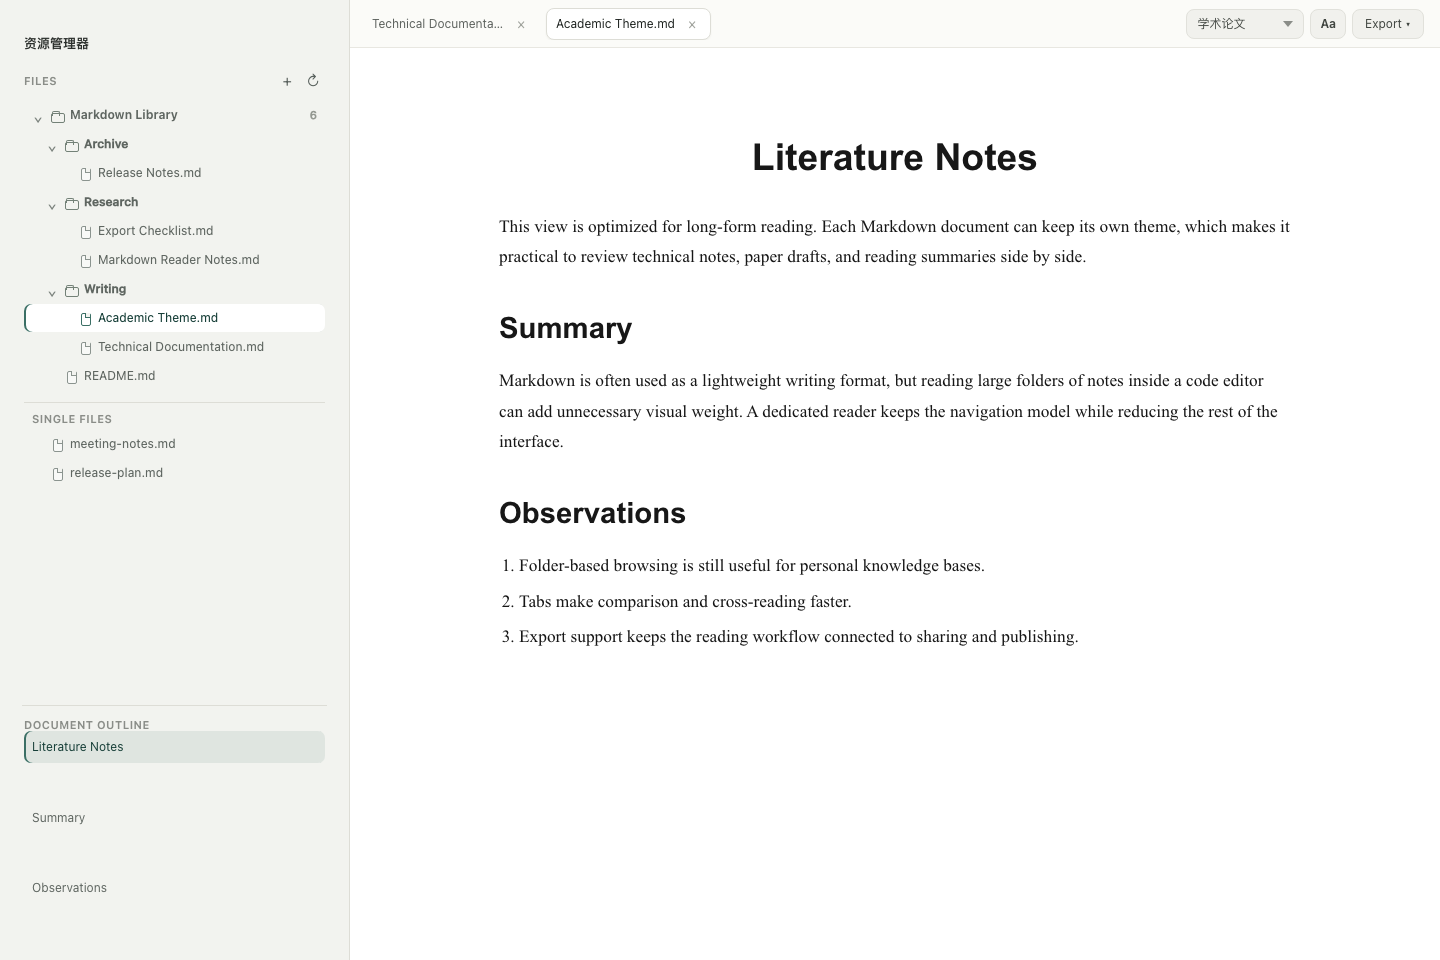
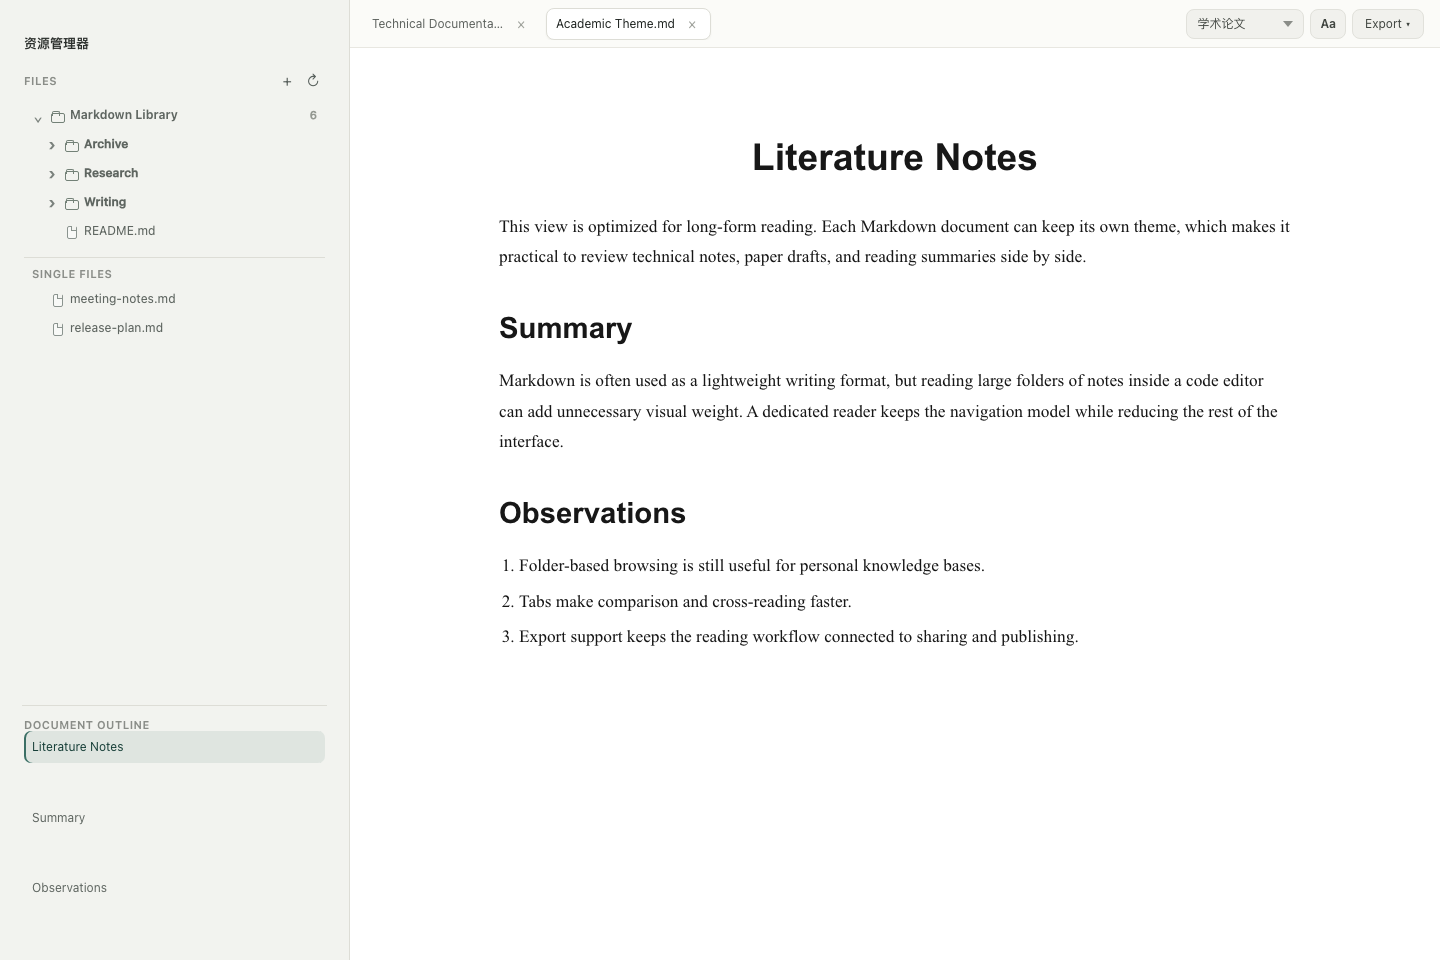
Refine workspace empty state

Changed region(s): [[0.0312, 0.1562, 0.1875, 0.4062], [0.0312, 0.4062, 0.125, 0.5]]

diff --git a/src/styles.css b/src/styles.css
@@ -702,41 +702,25 @@ body.is-resizing-sidebar #sidebar-resizer::after {
 #empty-state {
   display: flex;
   flex-direction: column;
-  align-items: flex-start;
+  align-items: center;
   justify-content: center;
   width: min(520px, calc(100% - 48px));
   min-height: 100%;
   margin: 0 auto;
-  color: #5e635f;
-}
-
-#empty-state .empty-icon {
-  display: inline-flex;
-  align-items: center;
-  justify-content: center;
-  width: 44px;
-  height: 44px;
-  margin-bottom: 18px;
-  color: #173f38;
-  background: #ffffff;
-  border: 1px solid #ddddd6;
-  border-radius: 8px;
-  font-size: 13px;
-  font-weight: 700;
-  letter-spacing: 0;
-  box-shadow: 0 1px 2px rgba(44, 44, 38, 0.06);
+  color: #8a8d88;
+  text-align: center;
 }
 
 #empty-state p {
   margin: 0;
-  color: #303431;
+  color: #777c78;
   font-size: 16px;
   line-height: 1.5;
 }
 
 #empty-state .hint {
   margin-top: 6px;
-  color: #747a75;
+  color: #9a9d98;
   font-size: 13px;
 }
 

diff --git a/src/main.js b/src/main.js
@@ -321,6 +321,18 @@ function createWorkspaceTree(files) {
   return root;
 }
 
+function collapseWorkspaceDirsByDefault(files) {
+  collapsedWorkspaceDirs.clear();
+  files.forEach((file) => {
+    const parts = (file.relative_path || file.name).split("/").filter(Boolean).slice(0, -1);
+    let current = "";
+    parts.forEach((part) => {
+      current = current ? `${current}/${part}` : part;
+      collapsedWorkspaceDirs.add(current);
+    });
+  });
+}
+
 function ensureWorkspaceDirExpanded(relativePath) {
   collapsedWorkspaceDirs.delete("");
   const parts = relativePath.split("/").filter(Boolean).slice(0, -1);
@@ -493,12 +505,12 @@ function renderWorkspaceFiles() {
 }
 
 function setWorkspace(payload) {
-  collapsedWorkspaceDirs.clear();
   workspace = {
     root: payload.root,
     name: payload.name,
     files: payload.files || [],
   };
+  collapseWorkspaceDirsByDefault(workspace.files);
   looseFiles = looseFiles.filter((file) => !isPathInsideRoot(file.path, workspace.root));
   renderWorkspaceFiles();
 }

diff --git a/src/index.html b/src/index.html
@@ -73,7 +73,6 @@
         </div>
         <div id="reader-content">
           <div id="empty-state">
-            <div class="empty-icon">MD</div>
             <p>拖拽 Markdown 文件或目录到窗口打开</p>
             <p class="hint">拖入目录后，可以从左侧列表选择文档阅读</p>
           </div>